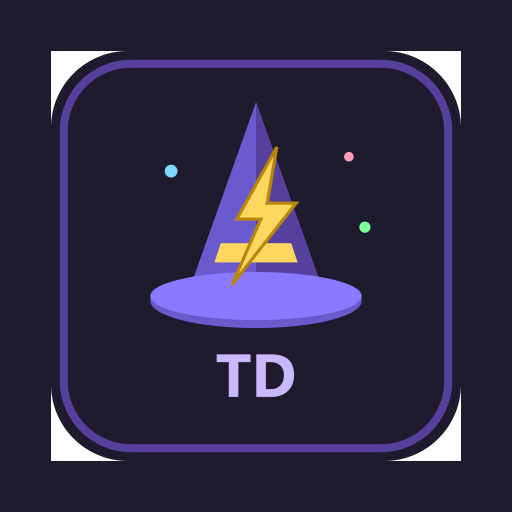
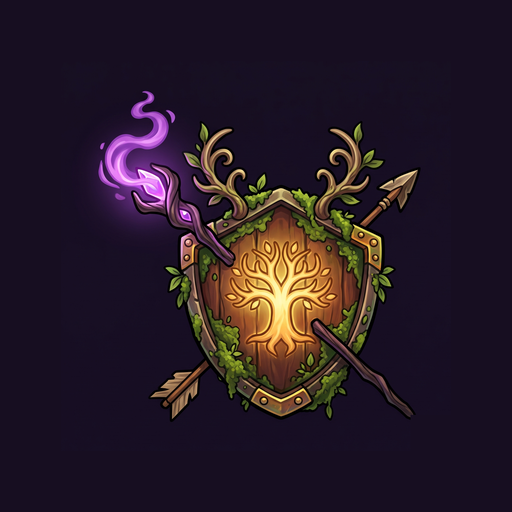
deploy

Changed region(s): [[0.0938, 0.0938, 0.9062, 0.9062]]

diff --git a/index.html b/index.html
@@ -9,8 +9,8 @@
     <meta name="apple-mobile-web-app-status-bar-style" content="black-translucent" />
     <title>Wildguard TD</title>
     <link rel="manifest" href="manifest.webmanifest" />
-    <link rel="icon" href="icon.svg" type="image/svg+xml" />
-    <link rel="apple-touch-icon" href="icons/portrait_fire.png" />
+    <link rel="icon" href="icon-192.png" type="image/png" />
+    <link rel="apple-touch-icon" href="icon-192.png" />
     <script type="module" crossorigin src="./assets/main-CwUJzOdg.js"></script>
     <link rel="modulepreload" crossorigin href="./assets/mapio-DVypBqcB.js">
     <link rel="stylesheet" crossorigin href="./assets/mapio-BReNjYd2.css">